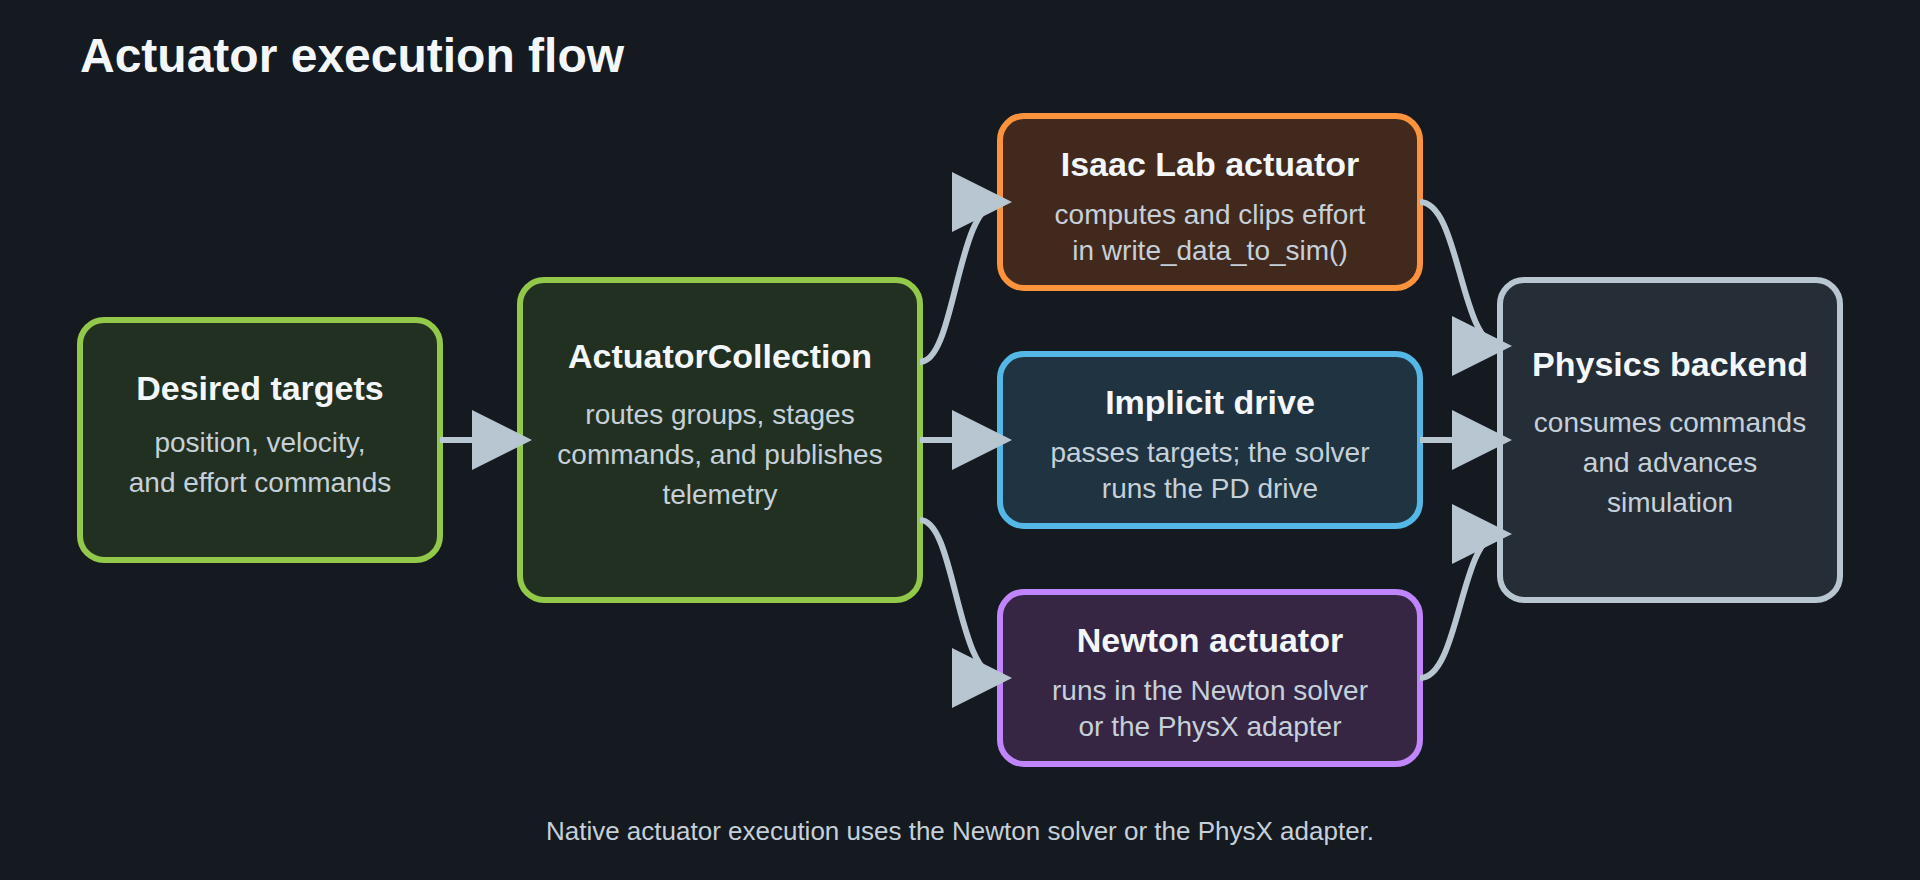
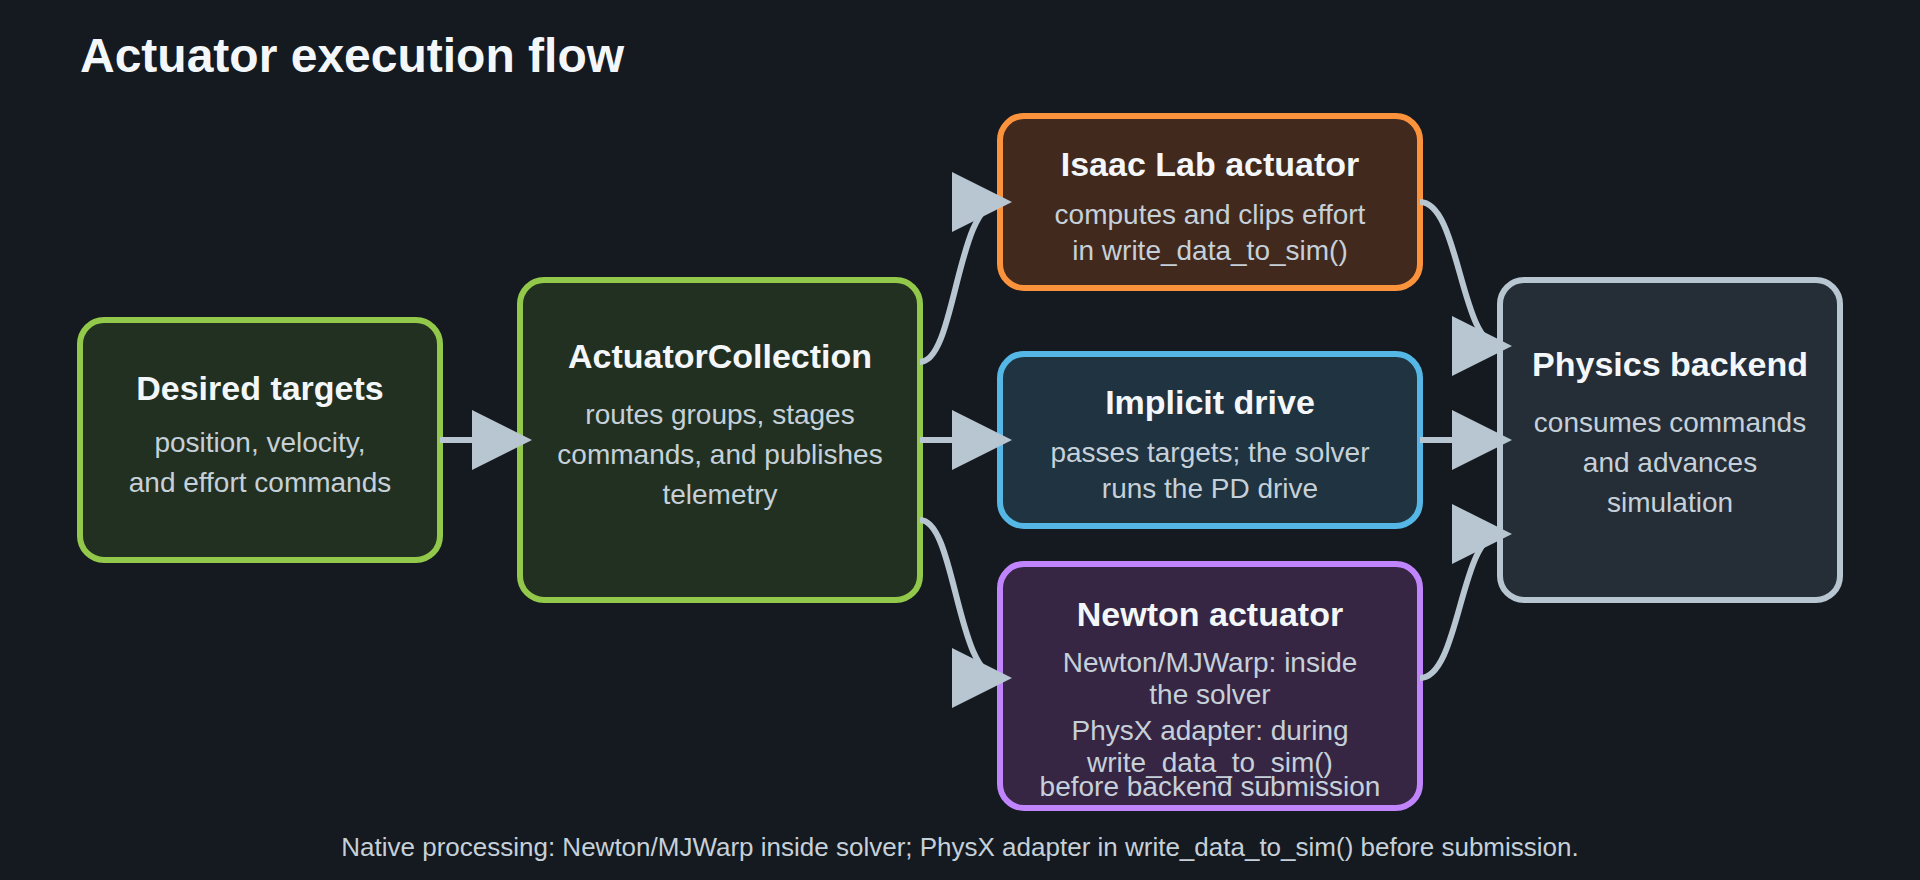
Clarify native actuator execution stages

Changed region(s): [[0.1562, 0.6136, 0.8125, 0.9818]]

diff --git a/docs/source/overview/core-concepts/actuators.rst b/docs/source/overview/core-concepts/actuators.rst
@@ -94,7 +94,7 @@ paths after collection staging:
 #. **Isaac Lab actuator** -- a Lab-managed explicit model turns the actuator command into a joint
    effort and clips it before submission.
 #. **Implicit drive** -- the backend consumes the desired targets and the solver-side PD gains.
-#. **Newton actuator** -- a native explicit controller finishes processing inside the Newton solver.
+#. **Newton actuator** -- a native explicit controller follows the active backend path; the next paragraph gives its stage.
 
 For Isaac Lab-managed models, ``actuators.joint_command`` exposes the processed position, velocity,
 and effort commands submitted to the active physics backend. Native paths bypass this view, so it
